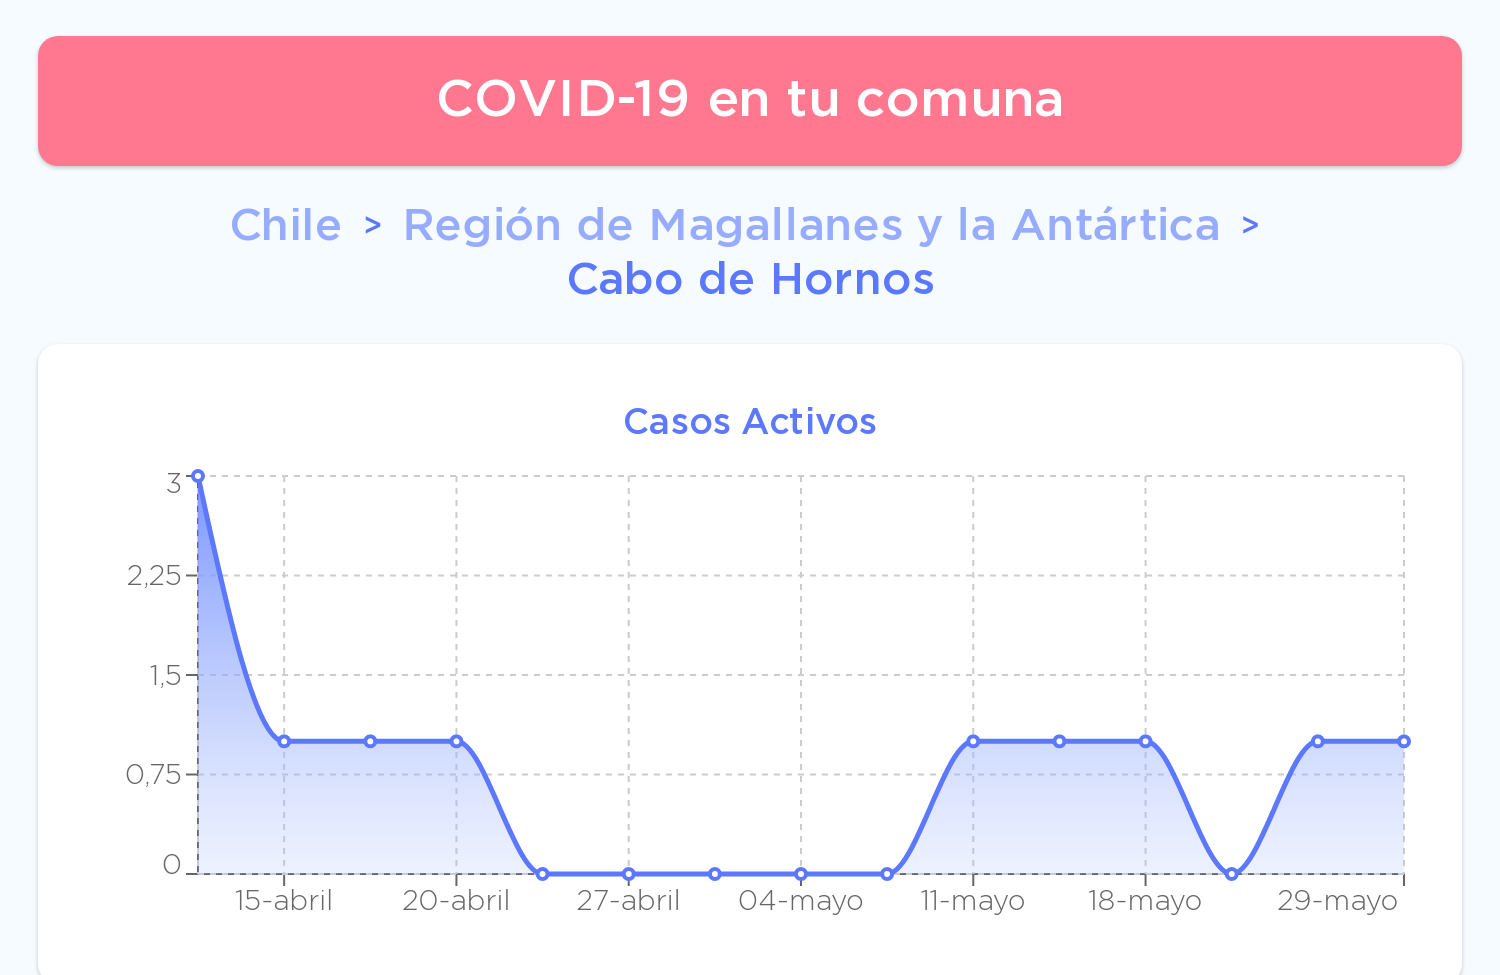
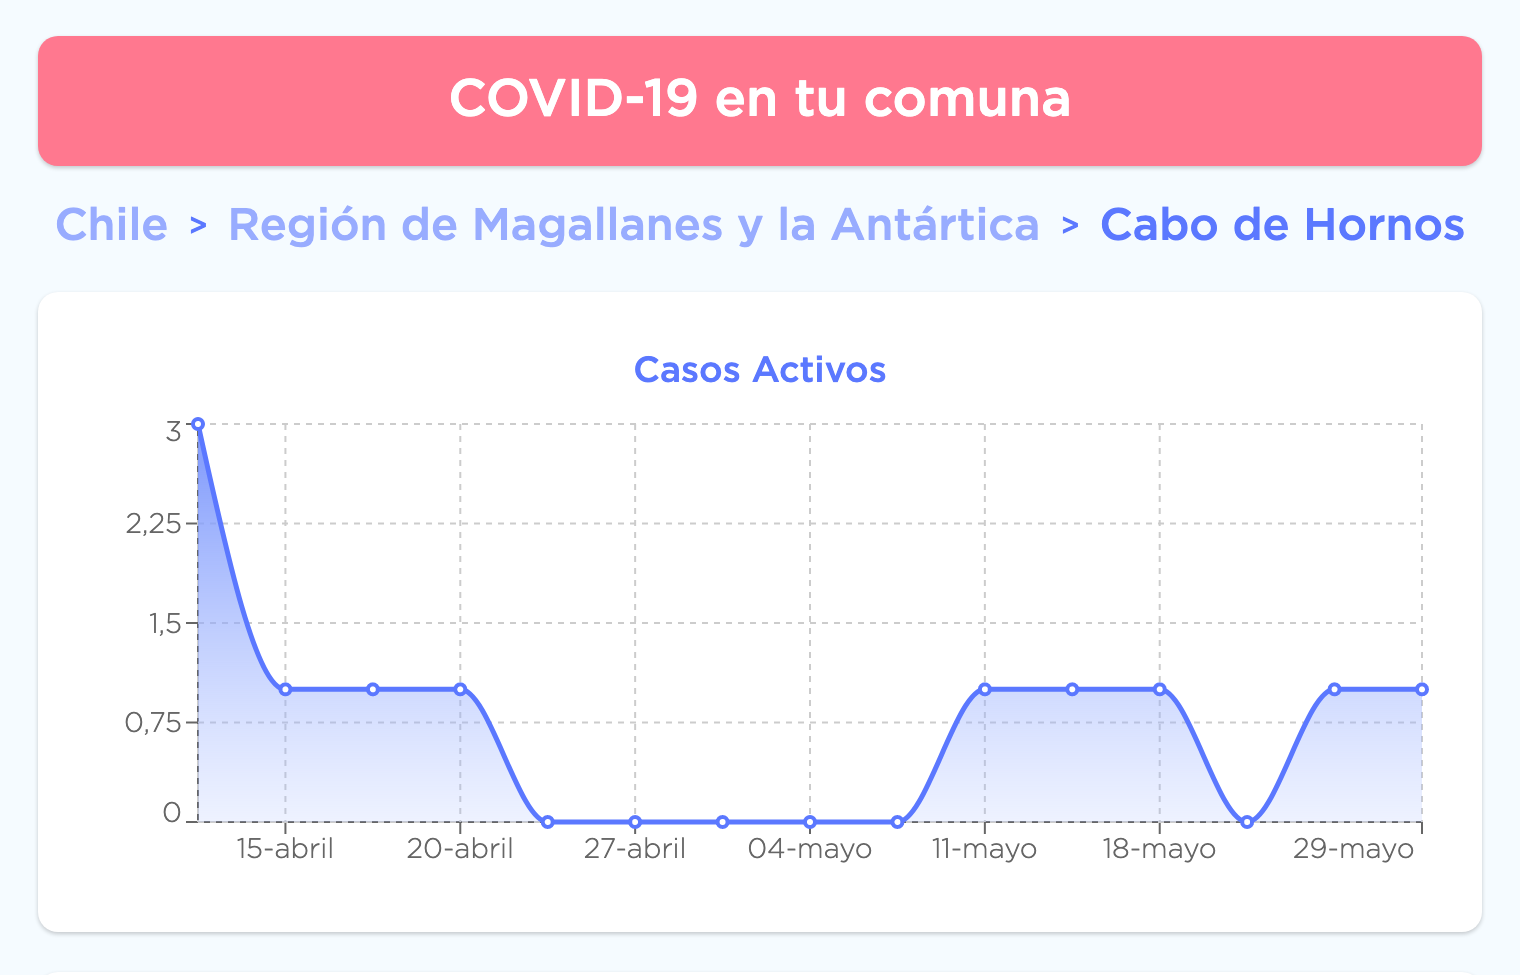
feat(capture): increase width

diff --git a/webshooter/utils/captureChart.js b/webshooter/utils/captureChart.js
@@ -3,7 +3,7 @@ const sharp = require('sharp');
 const { buildUrl, buildFilename } = require('./pathBuilder');
 
 async function capture(region, commune) {
-  const width = 750;
+  const width = 760;
   const height = 800;
 
   const url = buildUrl(region, commune);
